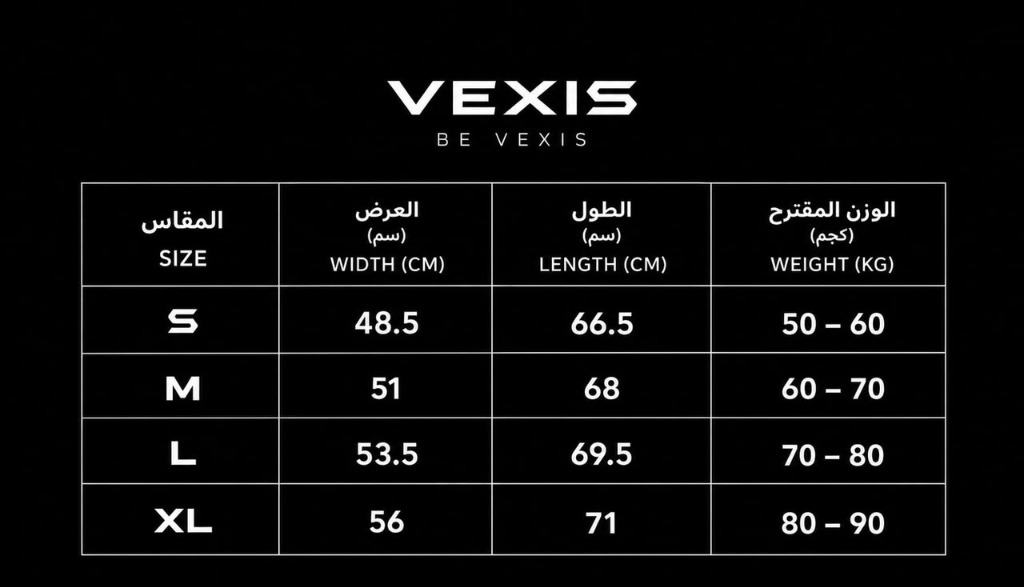
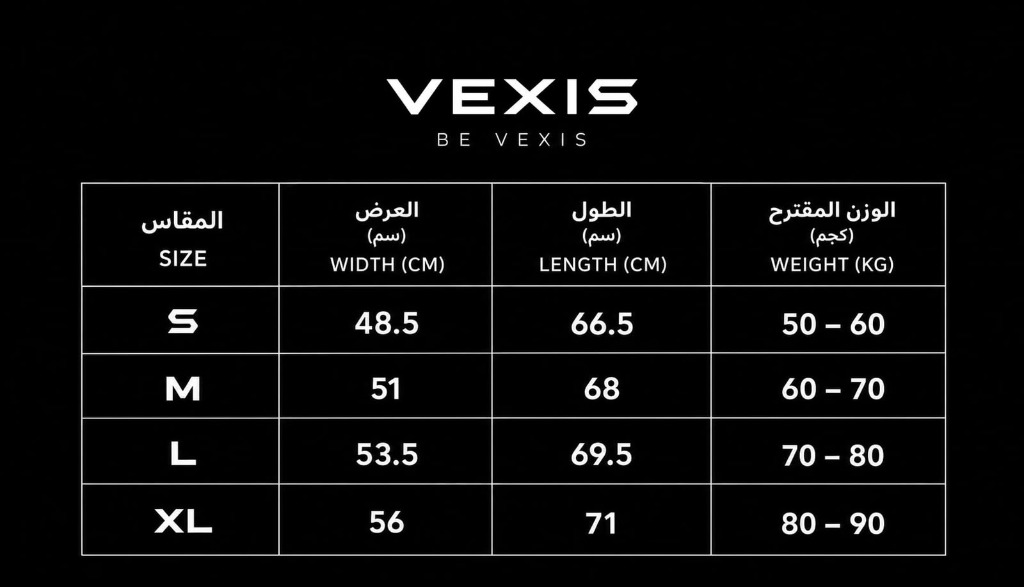
fix: add missing promo functions to checkout, update size chart v3
- Added calculateDiscount(), applyPromo(), removePromo() to checkoutPage() in checkout.html
- Fixed init() to restore promo state correctly on page reload (promoDiscount, promoMessage, promoSuccess)
- Updated size-chart.jpg to v3 cache-bust in product.html
- Replaced size-chart.jpg with new uploaded chart image

diff --git a/checkout.html b/checkout.html
@@ -409,9 +409,15 @@ function checkoutPage() {
       if (savedPromo) {
         try {
           this.appliedPromo = JSON.parse(savedPromo);
-          this.promoInput = this.appliedPromo.code || '';
+          this.promoInput   = this.appliedPromo.code || '';
           this.calculateDiscount();
-        } catch {}
+          if (this.promoDiscount > 0) {
+            this.promoSuccess = true;
+            this.promoMessage = `Promo applied! ${this.appliedPromo.discount_type === 'percent' ? this.appliedPromo.discount_value + '%' : 'EGP ' + this.appliedPromo.discount_value} OFF`;
+          }
+        } catch {
+          localStorage.removeItem('vexis_promo');
+        }
       }
 
       // Pre-fill phone if customer has saved before
@@ -419,6 +425,81 @@ function checkoutPage() {
       if (savedPhone) {
         this.form.phone = savedPhone;
       }
+    },
+
+    calculateDiscount() {
+      if (!this.appliedPromo) {
+        this.promoDiscount = 0;
+        return;
+      }
+      const type = this.appliedPromo.discount_type;
+      const val  = Number(this.appliedPromo.discount_value || 0);
+      const min  = Number(this.appliedPromo.min_spend || 0);
+
+      if (min > 0 && this.subtotal < min) {
+        this.promoDiscount = 0;
+        this.promoMessage  = `Minimum order of EGP ${min} required for this code`;
+        this.promoSuccess  = false;
+        return;
+      }
+
+      if (type === 'percent') {
+        this.promoDiscount = Math.round(this.subtotal * (val / 100));
+      } else {
+        this.promoDiscount = Math.min(this.subtotal, val);
+      }
+    },
+
+    async applyPromo() {
+      const code = this.promoInput.trim().toUpperCase();
+      if (!code) return;
+
+      this.promoLoading = true;
+      this.promoMessage = '';
+      this.promoSuccess = false;
+
+      try {
+        const res  = await fetch(`/api/promocodes?code=${encodeURIComponent(code)}`);
+        const data = await res.json();
+        const promo = data.promo || data.promocode;
+
+        if (data.success && promo) {
+          const min = Number(promo.min_spend || 0);
+          if (min > 0 && this.subtotal < min) {
+            this.appliedPromo  = null;
+            this.promoDiscount = 0;
+            this.promoSuccess  = false;
+            this.promoMessage  = `Minimum order of EGP ${min} required`;
+            localStorage.removeItem('vexis_promo');
+            return;
+          }
+          this.appliedPromo = promo;
+          localStorage.setItem('vexis_promo', JSON.stringify(promo));
+          this.calculateDiscount();
+          this.promoSuccess = true;
+          this.promoMessage = `Promo applied! ${promo.discount_type === 'percent' ? promo.discount_value + '%' : 'EGP ' + promo.discount_value} OFF`;
+        } else {
+          this.appliedPromo  = null;
+          this.promoDiscount = 0;
+          this.promoSuccess  = false;
+          this.promoMessage  = data.error || 'Invalid or expired promo code';
+          localStorage.removeItem('vexis_promo');
+        }
+      } catch (err) {
+        this.promoSuccess = false;
+        this.promoMessage = 'Error validating code. Please try again.';
+      } finally {
+        this.promoLoading = false;
+      }
+    },
+
+    removePromo() {
+      this.appliedPromo  = null;
+      this.promoInput    = '';
+      this.promoDiscount = 0;
+      this.promoMessage  = '';
+      this.promoSuccess  = false;
+      localStorage.removeItem('vexis_promo');
     },
 
     updateShipping() {

diff --git a/product.html b/product.html
@@ -593,7 +593,7 @@
 
     <!-- Modal Body: Size Chart Image -->
     <div class="p-3 sm:p-6 bg-black flex items-center justify-center">
-      <img src="size-chart.jpg"
+      <img src="size-chart.jpg?v=3"
            alt="VEXIS Official Size Chart"
            class="w-full h-auto rounded-xl border border-zinc-800/80 shadow-2xl object-contain max-h-[70vh]">
     </div>
